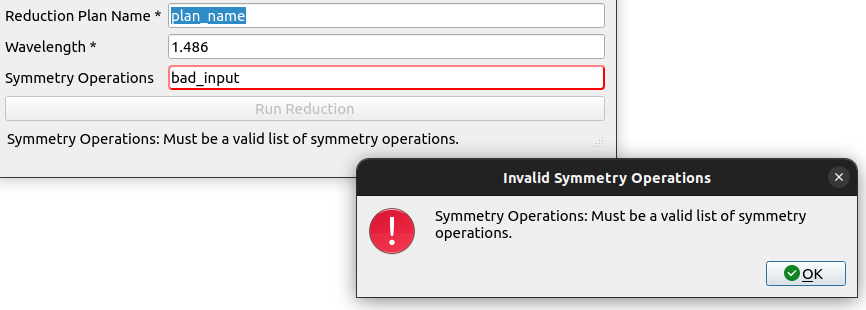
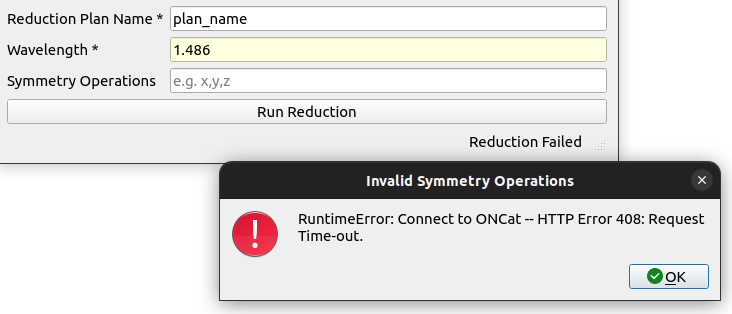
update pics

Changed region(s): [[0.0, 0.0, 0.9918, 1.0], [0.0, 0.1161, 0.1503, 0.2032]]

diff --git a/docs/source/GUI_standards.rst b/docs/source/GUI_standards.rst
@@ -152,6 +152,13 @@ the user to update the failing values before proceeding.
 
     Algorithm input validation will occur after the button has been enabled and pressed.
 
+.. figure:: images/algo-fail-validation.png
+    :align: center
+    :alt: Algorithm Input Validation
+
+    If an field fails validation after the button has been invoked, a popup will appear to notify
+    user and the field will be marked.
+
 .. figure:: images/red-until-after.png
     :align: center
     :alt: Algorithm Input Validation
@@ -190,4 +197,4 @@ functionality and facilitating efficient issue resolution.
     :align: center
     :alt: Error Handling
 
-    Error handling with status message and popups.
+    Error handling with popup explaining the error.
